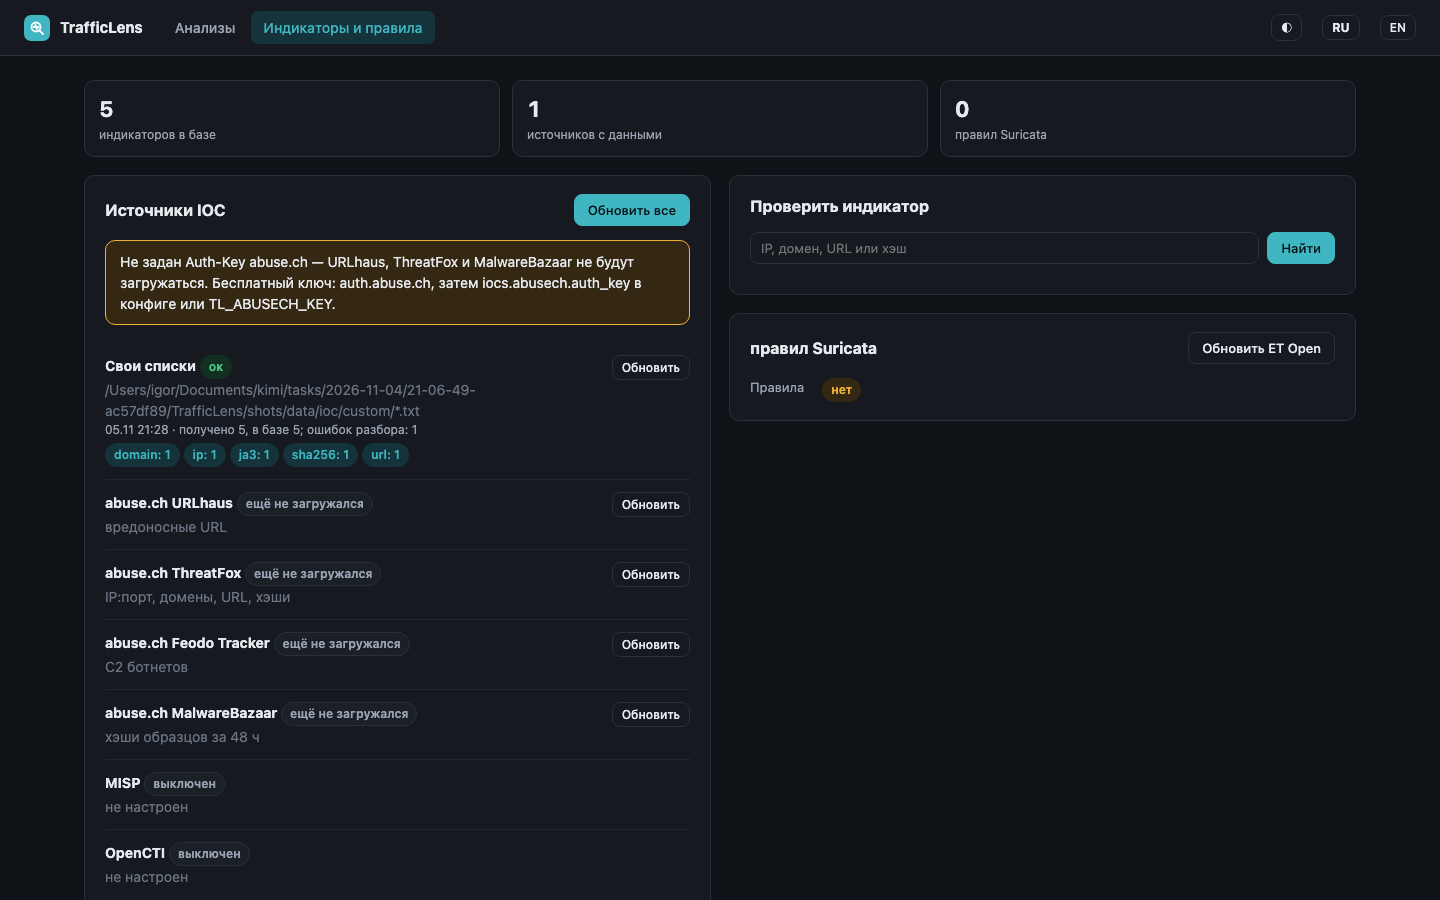
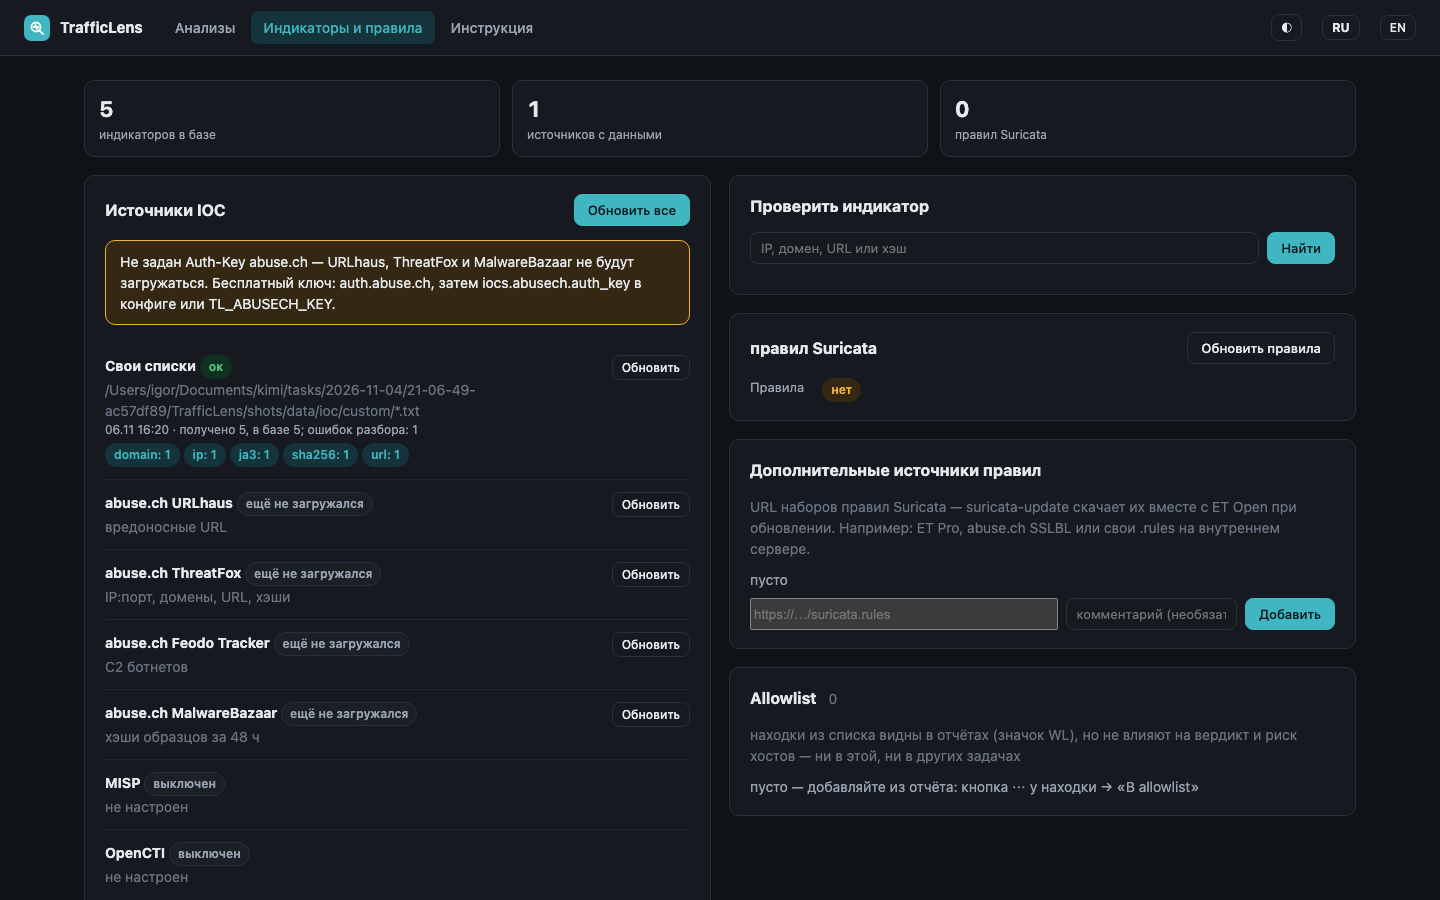
docs: ui.md актуализирован — фильтры задач, карточка хоста, ↗
Пересняты все скриншоты UI (index с фильтрами), добавлены снимки
карточки хоста и цепочки; make_ui_snapshots генерирует их явно в RU
(cookie tl_lang протекал от report-en на последующие страницы).

diff --git a/tools/make_ui_snapshots.py b/tools/make_ui_snapshots.py
@@ -6,7 +6,7 @@
 RU/EN, вкладка «Граф» открыта в report-graph.html).
 
 Скриншоты (macOS, Chrome):
-  for f in login-ru login-en index index-dark iocs iocs-dark report report-dark report-en report-graph; do
+  for f in login-ru login-en index index-dark iocs iocs-dark report report-dark report-en report-graph host chain; do
     "/Applications/Google Chrome.app/Contents/MacOS/Google Chrome" --headless=new \
       --disable-gpu --hide-scrollbars --window-size=1440,900 \
       --screenshot="docs/screenshots/ui/$f.png" "file://$PWD/shots/html/$f.html"
@@ -92,6 +92,8 @@ def main() -> None:
         "iocs": c.get("/iocs").text,
         "report": c.get(f"/jobs/{real}").text,
         "report-en": c.get(f"/jobs/{real}?lang=en").text,
+        "host": c.get(f"/jobs/{real}/host/{fx.WS}?lang=ru").text,
+        "chain": c.get(f"/jobs/{real}/chain?lang=ru").text,
     }
     for name, html in pages.items():
         full = inline_assets(html)

diff --git a/docs/ui.md b/docs/ui.md
@@ -1,9 +1,10 @@
 # Интерфейс TrafficLens
 
-Веб-интерфейс состоит из трёх страниц: «Анализы», «Индикаторы и правила» и страница отчёта по задаче. Плюс страница входа, если включена аутентификация.
+Веб-интерфейс состоит из страниц «Анализы», «Индикаторы и правила» и «Инструкция», а также страниц отчёта по задаче, карточки хоста и цепочки компрометации. Плюс страница входа, если включена аутентификация.
 
 Общие элементы шапки:
 
+- **Инструкция** — встроенное пошаговое руководство администратора со скриншотами (`/help`): от загрузки дампа до цепочек для тикета. Версия соответствует языку интерфейса.
 - **◐** — переключение темы (светлая / тёмная). Выбор запоминается в браузере (`localStorage`), по умолчанию берётся системная тема.
 - **RU / EN** — язык интерфейса (русский / английский). Выбор сохраняется в cookie `tl_lang`.
 - **Выйти** — показывается только после входа.
@@ -24,7 +25,7 @@
 
 - **Новый анализ** — перетащите PCAP в пунктирную область или нажмите и выберите файл. Поддерживаются `.pcap`, `.pcapng`, `.cap`, в том числе сжатые `.gz`. Под зоной загрузки — раскрывающийся блок **«Фильтр PCAP перед анализом»**: BPF-выражение (синтаксис tcpdump, например `host 10.0.0.5 and port 443`) и/или окно времени. В анализ пойдёт только совпадающий трафик — удобно, чтобы не разбирать гигабайтный дамп ради одного хоста или минуты. Применённый фильтр виден в отчёте в блоке «Об анализе».
 - **Живой захват** — статус контейнера захвата и доступность движков (Zeek, Suricata, правила).
-- **Анализы** — таблица задач: время создания, файл, источник (загрузка/захват), период трафика, статус, скоринговый итог и счётчики (IOC, алерты, файлы, соединения). Строка с вердиктом «Компрометация» подсвечивается. Справа вверху два поля: **поиск** ищет подстроку не только в имени файла, но и внутри готовых отчётов (хосты, IOC, имена переданных файлов, DNS-имена); рядом — быстрый фильтр по видимым колонкам таблицы.
+- **Анализы** — таблица задач: время создания, файл, источник (загрузка/захват), период трафика, статус, скоринговый итог и счётчики (IOC, алерты, файлы, соединения). Строка с вердиктом «Компрометация» подсвечивается. Справа вверху — поиск и фильтры: **поиск** ищет подстроку не только в имени файла, но и внутри готовых отчётов (хосты, IOC, имена переданных файлов, DNS-имена); рядом выпадающие списки **вердикта** (критичный/подозрительный/чистый) и **источника** (загрузка/захват) плюс диапазон **дат создания** — всё комбинируется, сбрасывается ссылкой «Сбросить» рядом со счётчиком найденного. Последнее поле — быстрый клиентский фильтр по видимым колонкам таблицы.
 
 ![Анализы, тёмная тема](screenshots/ui/index-dark.png)
 
@@ -60,7 +61,13 @@
 
 Открывается по значку **▸** рядом с любым адресом в отчёте (приоритетные хосты, локальные, внешние). Собирает по одному IP всё, что видно в дампе: риск-скор и основания из «Приоритетных хостов», трафик-счётчики, **таймлайн событий** (DNS-запросы, TLS-сессии, HTTP, файлы, срабатывания сигнатур, notice Zeek, маячки, выгрузки, cleartext-учётные данные, невалидные сертификаты — по времени), таблицу **контактов** с объёмами и портами, список переданных файлов и срез IOC. Строки с IOC подсвечены; правый клик по значениям — копирование или проверка на VirusTotal. Страница строится из логов уже разобранной задачи — повторный анализ не нужен, работает и для старых задач.
 
+![Карточка хоста](screenshots/ui/host.png)
+
+Из карточки работает и обратный переход: кнопки **↗** у адреса, индикаторов и файлов открывают нужную вкладку отчёта с уже применённым фильтром — не приходится вручную искать тот же хост в длинных таблицах.
+
 ## Цепочка компрометации
+
+![Цепочка компрометации](screenshots/ui/chain.png)
 
 Открывается кнопкой **«Цепочка»** в шапке отчёта (`/jobs/<id>/chain`). Находки раскладываются по этапам атаки MITRE ATT&CK в порядке kill chain: разведка → первичный доступ → выполнение → эскалация привилегий → учётные данные → управление (C2) → эксфильтрация → воздействие. У каждого этапа — все доказательства в хронологии (сигнатуры, маячки, выгрузки, cleartext-учётные данные, невалидный TLS, подозрительный DNS, файлы и совпадения IOC), задействованные хосты со ссылками на их карточки и техники ATT&CK. Плашки тактик и техник — ссылки на описания на attack.mitre.org (как и в панели MITRE на сводке отчёта и в колонке MITRE таблицы сигнатур). Пустые этапы показаны серым — так видно, каких звеньев атаки в дампе нет. Сверху два блока: **хосты, замеченные на нескольких этапах** (с них стоит начинать расследование) и **цепочки для тикета** — готовые строки вида `хост → индикатор → адрес:порт → файл → хэш → источники IOC` с кнопкой копирования. Страница строится из `report.json` и доступна для отчётов старых версий.
 

diff --git a/CHANGELOG.md b/CHANGELOG.md
@@ -22,7 +22,7 @@
 - Отчёт полностью переведён на английский: вкладки, таблицы, KPI, кнопки, диалоги, ошибки API, единицы длительности и объёма, а также данные находок — причины вердикта, контексты и типы IOC, направления передачи файлов, важность сигнатур, причины подозрительного DNS, статусы Suricata и источников IOC. В `report.json` эти строки хранятся как машинные токены (`ctx_*`, `dir_*`, `{"k": ...}`) и переводятся при рендере; отчёты старого формата показывают сохранённый русский текст. Перевод применяется к новым анализам — для старых задач нажмите «Пересверить IOC» или «Повторить».
 - Старые отчёты (JSON без данных графа) открываются без ошибок — граф достраивается при рендере из сохранённых соединений.
 - Кнопка «Выйти» больше не показывается на странице входа.
-- Документация: `docs/ui.md` (описание интерфейса со скриншотами в обеих темах) и `docs/admin.md` (руководство администратора).
+- Документация: `docs/ui.md` (описание интерфейса со скриншотами в обеих темах; актуализировано — фильтры задач, карточка хоста с кнопками ↗, скриншоты карточки и цепочки) и `docs/admin.md` (руководство администратора).
 - Добавлен `tools/smoke_server.sh`: серверная smoke-проверка после обновления. Работает во временном каталоге данных, не трогает боевую базу: custom IOC, генерация PCAP, анализ, проверка «Приоритетных хостов» в HTML/JSON и healthcheck живого сервиса.
 - Добавлен `docs/roadmap.md`: план релизов 0.2.0 / 0.3.0 / 0.4.0 с критериями готовности.
 - На сводке отчёта появились «Приоритетные хосты»: локальные хосты ранжируются по суммарному риску из IOC, сигнатур Suricata, файлов с IOC, маячков, крупных выгрузок, cleartext-учётных данных, невалидного TLS и подозрительного DNS. Для каждого хоста видны основания, индикаторы и внешние адреса.
